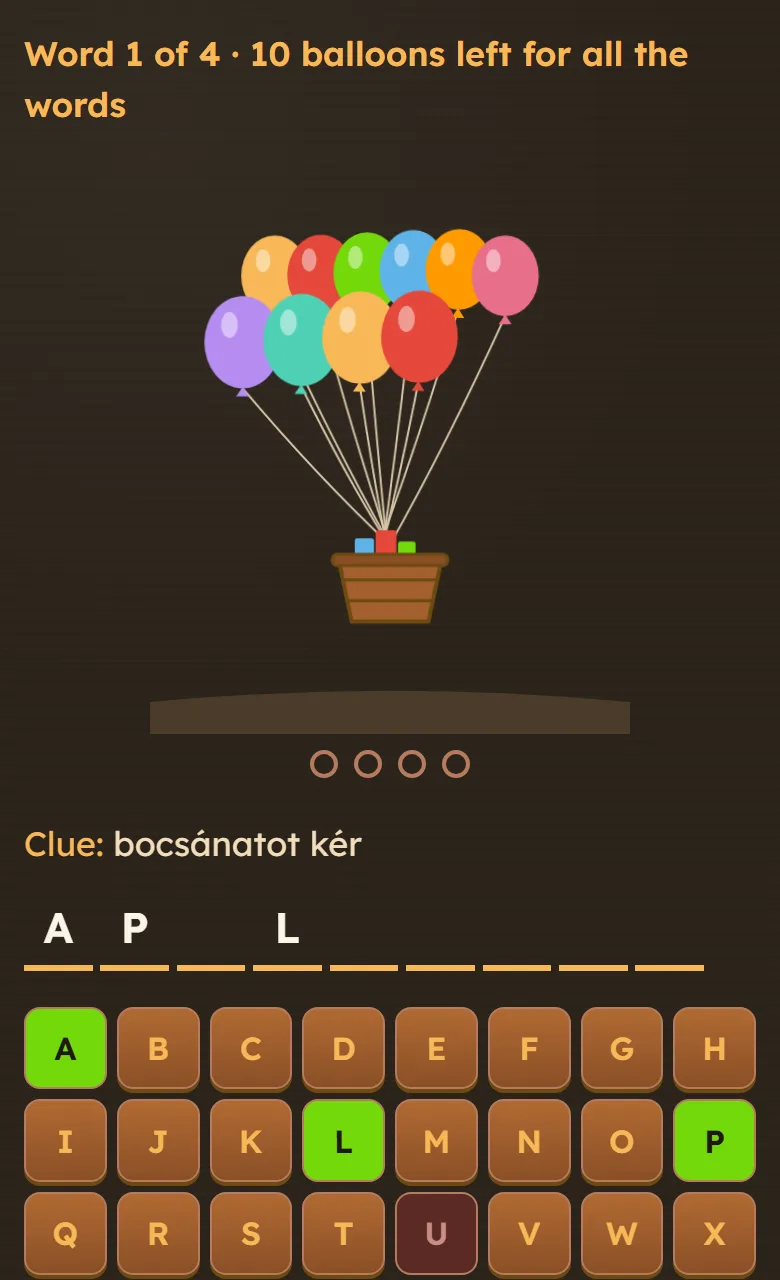
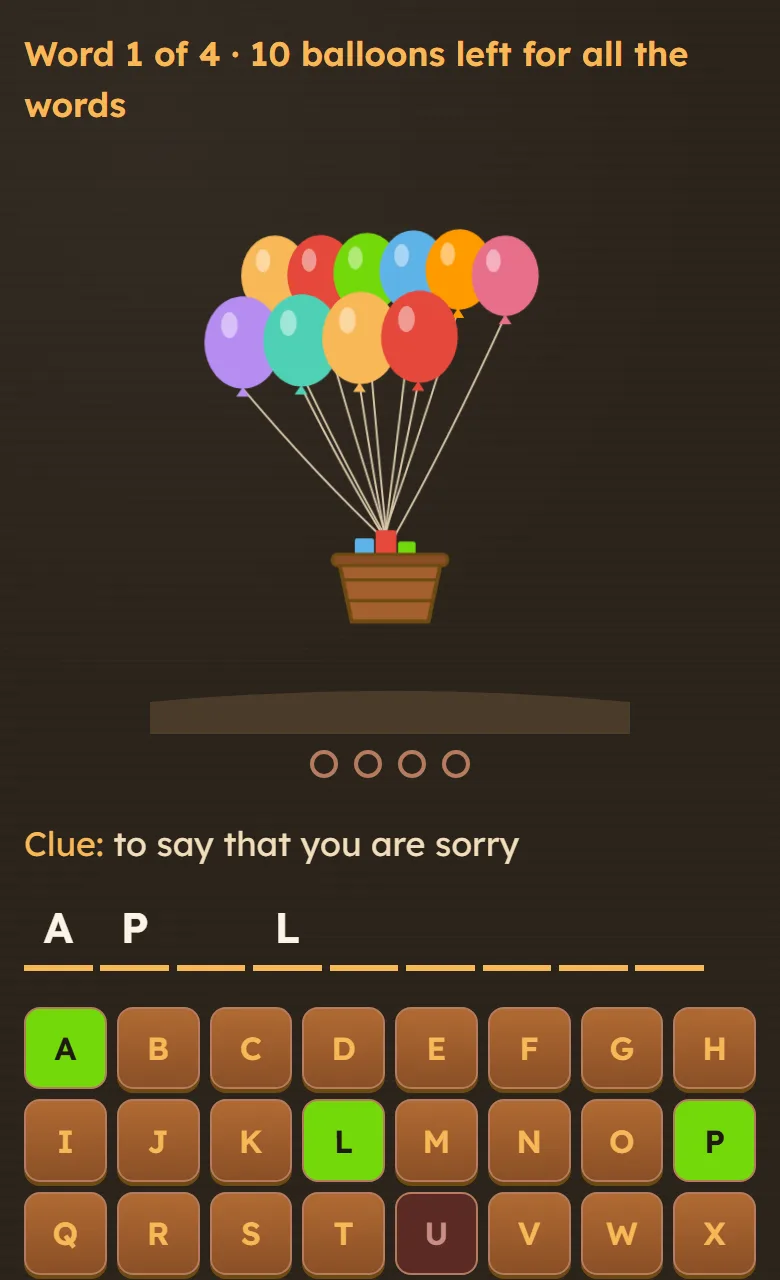
Landing shots: English definitions as clues in Memory, Hangman and Drowning (no Hungarian on an international page); cover re-rendered

Changed region(s): [[0.1538, 0.6562, 0.6769, 0.6875], [0.4615, 0.3438, 0.5231, 0.4062]]

diff --git a/public/dev/shot.js b/public/dev/shot.js
@@ -12,7 +12,11 @@ import * as drowning from '/js/games/drowning.js';
 const UI = { memory, matching, wordsearch, crossword, hangman, gapfill, drowning };
 const params = new URLSearchParams(location.search);
 const id = GAME_IDS.includes(params.get('game')) ? params.get('game') : 'memory';
-const puzzle = generateGame(id, list, { ...GAMES[id].defaults }, params.get('seed') || 'landing:1');
+// English definitions as clues, not the sample list's Hungarian translations: the landing page is international
+// (András, 2026-11-22). Games whose clue is the word itself (word search) keep their default.
+const settings = { ...GAMES[id].defaults };
+if (settings.clueMode === 'translation') settings.clueMode = 'definition';
+const puzzle = generateGame(id, list, settings, params.get('seed') || 'landing:1');
 const mounted = UI[id].render(puzzle, { lang: list.targetLang, onFinish: () => {} });
 document.getElementById('game').replaceChildren(mounted.el);
 document.title = `${GAMES[id].meta.title} – shot`;

diff --git a/public/index.html b/public/index.html
@@ -120,7 +120,7 @@
             <h3>Crossword</h3><p>Solve the rows from definitions or translations; the yellow column spells a secret word.</p>
           </li>
           <li class="card game">
-            <img src="/img/landing/hangman.webp" alt="Hangman with balloons on a phone: a word half guessed from its translation" width="780" height="1280" loading="lazy">
+            <img src="/img/landing/hangman.webp" alt="Hangman with balloons on a phone: a word half guessed from its definition" width="780" height="1280" loading="lazy">
             <h3>Hangman</h3><p>Guess the word letter by letter before the balloons pop.</p>
           </li>
           <li class="card game">
